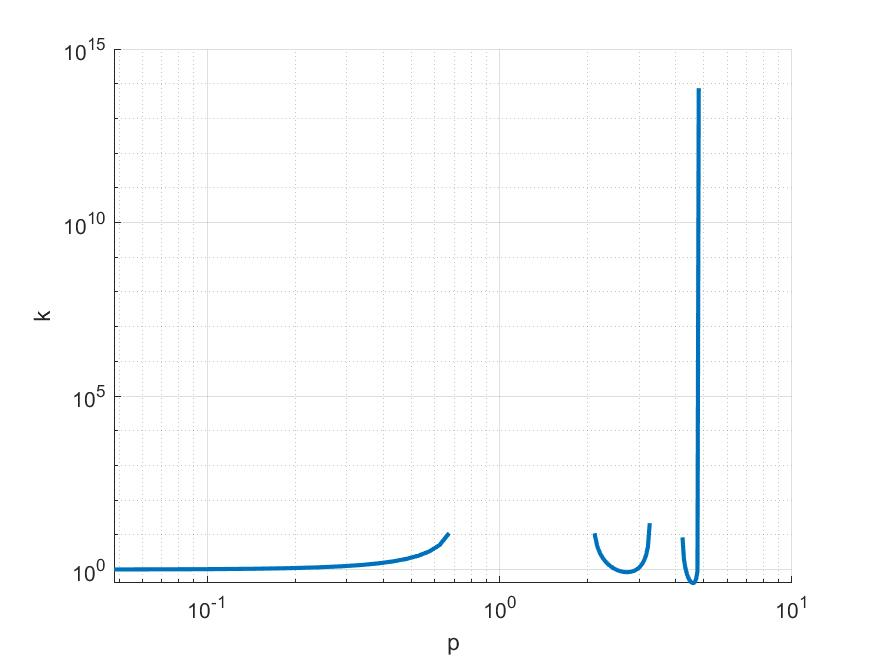
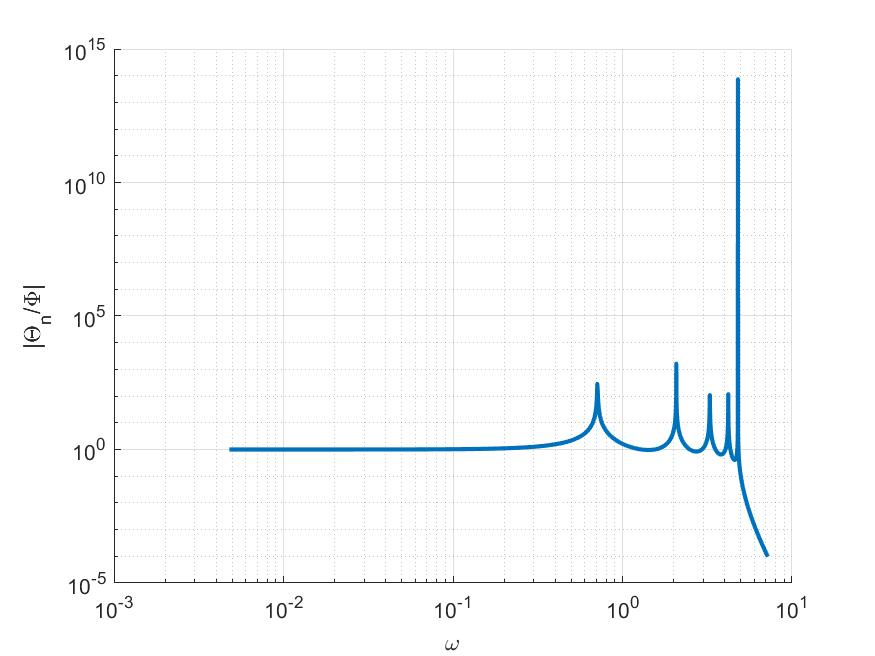
Changed Plot

diff --git a/main.m b/main.m
@@ -88,14 +88,14 @@ end
 F = zeros(n, 1);
 F(1) = k;
 
-w_range = max(w)*(0:0.01:1.5);
+w_range = max(w)*(0:0.001:1.5);
 T_n_range = zeros(size(w_range));
-for k = 1:length(w_range)
-    % Base Excitation
-    w = w_range(k);
+for j = 1:length(w_range)
+    % Base Excitation Frequency
+    w = w_range(j);
     % Angular Displacement Vector (Divided by exp(iwt))
     T_ = F'/(K-w^2*M);
-    T_n_range(k) = T_(n);
+    T_n_range(j) = T_(n);
 end
 
 figure();
@@ -103,9 +103,9 @@ set(gca, 'YScale', 'log');
 set(gca, 'XScale', 'log');
 hold('on');
 grid('on');
-xlabel('p');
-ylabel('k');
-plot(w_range, T_n_range, 'LineWidth', 2);
+xlabel('\omega');
+ylabel('|\Theta_n/\Phi|');
+plot(w_range, abs(T_n_range), 'LineWidth', 2);
 saveas(gcf, 'Transmissibility', 'jpeg');
 
 % PART C ----------------------------------------------------------------------
